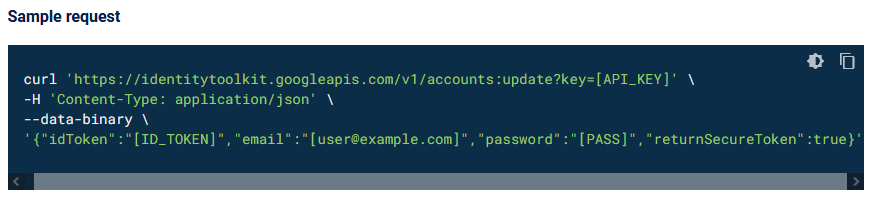
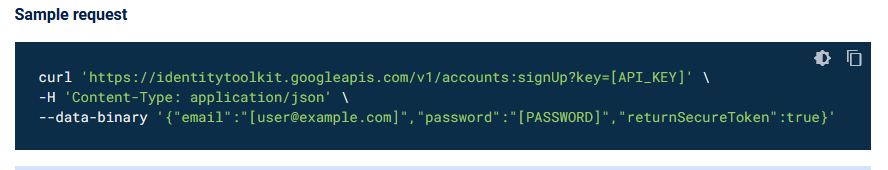
I did link email (update) instead of sign up email api

Changed region(s): [[0.0, 0.2059, 1.0, 0.9412], [0.0, 0.9706, 1.0, 1.0], [0.0, 0.0294, 0.1524, 0.1471]]

diff --git a/blogfirstandroidgame23.html b/blogfirstandroidgame23.html
@@ -36,7 +36,7 @@
             <section class="diarypost">
                 <blogcontent-component>
                     <span slot ="action1text">This is part 23 of making my first Android Game. If you missed part22, you can find it <a href="blogfirstandroidgame22.html">here</a>. </span>
-                    <span slot ="action2text">NOTE: I am using firebase SDK v 11.6.0. Before we continue adding more data. I want to know if I can manually create emails, verify emails and so forth using APIs. I am following this <a href="https://firebase.google.com/docs/reference/rest/auth">Firebase Auth Rest API</a> First I can link an email/password to a current user by issuing an HTTP POST request to the Auth setAccountInfo endpoint. This will allow the email to be registered and appear in Firebase Authentication. The endpoint is <code>https://identitytoolkit.googleapis.com/v1/accounts:update?key=[API_KEY]</code> The sample request looks like the below</span>
+                    <span slot ="action2text">NOTE: I am using firebase SDK v 11.6.0. Before we continue adding more data. I want to know if I can manually create emails, verify emails and so forth using APIs. I am following this <a href="https://firebase.google.com/docs/reference/rest/auth">Firebase Auth Rest API</a> First I can create a new email and password user by issuing an HTTP POST request to the Auth signupNewUser endpoint. This will allow the email to be registered and appear in Firebase Authentication. The endpoint is <code>https://identitytoolkit.googleapis.com/v1/accounts:signUp?key=[API_KEY]</code> The sample request looks like the below</span>
                     <img class="diarypostimage" src="images_videos/blog/FirstAndroidGame/firebase51.PNG" slot="action2image">
                     <span slot ="action3text">The API_KEY which refers to the Web API Key, which can be obtained on the project settings page in your admin console. </span>
                     <img class="diarypostimage" src="images_videos/blog/FirstAndroidGame/firebase53.PNG" slot="action3image">
